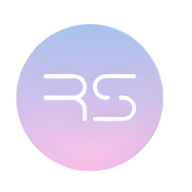
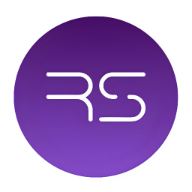
theme updated

diff --git a/src/App.css b/src/App.css
@@ -92,7 +92,7 @@ nav.navbar {
 }
 nav.navbar.scrolled {
   padding: 0px 0;
-  background-color: #121212;
+  background-color: #000000;
 }
 nav.navbar a.navbar-brand {
     width: 9%;
@@ -234,18 +234,32 @@ nav.navbar .navbar-toggler[aria-expanded="true"] .navbar-toggler-icon {
 
 /************ Banner Css ************/
 .banner {
+  position: relative;
   margin-top: 0;
   padding: 260px 0 100px 0;
-  background-image: url('./assets/img/banner-bg.png');
+  background: none; /* Remove the background from the main element */
+}
+
+.banner::before {
+  content: '';
+  position: absolute;
+  top: 0;
+  left: 0;
+  right: 0;
+  bottom: 0;
+  background-image: url('./assets/img/banner-bg\ v1.png');
   background-position: top center;
   background-size: cover;
   background-repeat: no-repeat;
+  filter: blur(100%); /* Apply the filter here */
+  z-index: -1; /* Ensure the pseudo-element is behind the content */
 }
+
 .banner .tagline {
   font-weight: 700;
   letter-spacing: 0.8px;
   padding: 8px 10px;
-  background: linear-gradient(90.21deg, rgba(170, 54, 124, 0.5) -5.91%, rgba(74, 47, 189, 0.5) 111.58%);
+  background: linear-gradient(90.21deg, #8B4BD1  -5.91%, #430A62 111.58%);
   border: 1px solid rgba(255, 255, 255, 0.5);
   font-size: 20px;
   margin-bottom: 16px;
@@ -423,7 +437,7 @@ nav.navbar .navbar-toggler[aria-expanded="true"] .navbar-toggler-icon {
 }
 .proj-imgbx::before {
   content: "";
-  background: linear-gradient(90.21deg, #AA367C -5.91%, #4A2FBD 111.58%);
+  background: linear-gradient(90.21deg, #8B4BD1 -5.91%, #430A62 111.58%);
   opacity: 0.85;
   position: absolute;
   width: 100%;
@@ -470,7 +484,7 @@ nav.navbar .navbar-toggler[aria-expanded="true"] .navbar-toggler-icon {
 
 /************ Projects Css ************/
 .contact {
-  background: linear-gradient(90.21deg, #AA367C -5.91%, #4A2FBD 111.58%);
+  background: linear-gradient(90.21deg,#8B4BD1  -5.91%, #430A62 111.58%);
   padding: 60px 0 200px 0;
 }
 .contact img {
@@ -543,7 +557,9 @@ nav.navbar .navbar-toggler[aria-expanded="true"] .navbar-toggler-icon {
 /************ Footer Css ************/
 .footer {
   padding: 0 0 25px 0;
-  background-image: url('./assets/img/footer-bg.png');
+  /* background-image: url('./assets/img/footer-bg.png'); */
+  background-color: rgb(0, 0, 0);
+  filter: brightness(100%);
   background-position: center center;
   background-size: cover;
   background-repeat: no-repeat;
@@ -696,6 +712,8 @@ nav.navbar .navbar-toggler[aria-expanded="true"] .navbar-toggler-icon {
 .navbar-img {
   position: relative;
   top: -5px;
+  margin-top: 20px;
+  margin-bottom: 10px;
   left: -56px;
 }
 
@@ -804,7 +822,7 @@ nav.navbar .navbar-toggler[aria-expanded="true"] .navbar-toggler-icon {
 
 /* Download button styles */
 .rs-download {
-  background-image: linear-gradient(30deg, #AA367C 0%, #4A2FBD 51%, #AA367C 100%);
+  background-image: linear-gradient(30deg,#8B4BD1  0%, #430A62 51%, #8B4BD1 100%);
   margin: 10px;
   padding: 15px 45px;
   text-align: center;

diff --git a/src/components/Banner.js b/src/components/Banner.js
@@ -1,6 +1,6 @@
 import { useState, useEffect } from "react";
 import { Container, Row, Col } from "react-bootstrap";
-import headerImg from "../assets/img/header-img.svg";
+import headerImg from "../assets/img/moonreaper.png";
 import { ArrowRightCircle } from 'react-bootstrap-icons';
 import 'animate.css';
 import TrackVisibility from 'react-on-screen';
@@ -55,7 +55,7 @@ export const Banner = () => {
             <TrackVisibility>
               {({ isVisible }) =>
               <div className={isVisible ? "animate__animated animate__fadeIn" : ""}>
-                <span className="tagline">Welcome to my Portfolio</span>
+                <span className="tagline" >Welcome to my Portfolio</span>
                 <h1>{`Hi I'm Shashank  `} <span className="txt-rotate" dataPeriod="1000" data-rotate='[ "Web Developer", "Web Designer" ]'><span className="wrap">{text}</span></span></h1>
                 <p>An aspiring web professional dedicated to creating innovative and user-friendly digital experiences. Passionate about leveraging technology to solve real-world problems and deliver impactful solutions.</p>
                   <a href="#connect" style={{ textDecoration: 'none' }}>
@@ -69,7 +69,7 @@ export const Banner = () => {
             <TrackVisibility>
               {({ isVisible }) =>
                 <div className={isVisible ? "animate__animated animate__zoomIn" : ""}>
-                  <img src={headerImg} alt="Header Img"/>
+                  <img className="banner-logo" src={headerImg} alt="Header Img"/>
                 </div>}
             </TrackVisibility>
           </Col>

diff --git a/src/components/NavBar.js b/src/components/NavBar.js
@@ -1,6 +1,6 @@
 import { useState, useEffect } from "react";
 import { Navbar, Nav, Container } from "react-bootstrap";
-import logo from '../assets/img/logo-2.png';
+import logo from '../assets/img/logo-3.png';
 import navIcon1 from '../assets/img/nav-icon1.svg';
 import navIcon2 from '../assets/img/nav-icon2.svg';
 import navIcon3 from '../assets/img/nav-icon3.svg';
@@ -37,7 +37,7 @@ export const NavBar = () => {
       <Navbar expand="md" className={scrolled ? "scrolled" : ""}>
         <Container>
           <Navbar.Brand href="/">
-<img className="navbar-img" src={logo} alt="" />
+<img className="navbar-img"  src={logo} alt="" />
           </Navbar.Brand>
           <Navbar.Toggle aria-controls="basic-navbar-nav">
             <span className="navbar-toggler-icon"></span>

diff --git a/src/components/Footer.js b/src/components/Footer.js
@@ -1,6 +1,6 @@
 import { Container, Row, Col } from "react-bootstrap";
 import { MailchimpForm } from "./MailchimpForm";
-import logo from "../assets/img/logo-2.png";
+import logo from "../assets/img/logo-3.png";
 import navIcon1 from "../assets/img/nav-icon1.svg";
 import navIcon2 from "../assets/img/nav-icon2.svg";
 import navIcon3 from "../assets/img/nav-icon3.svg";
@@ -12,7 +12,9 @@ export const Footer = () => {
         <Row className="align-items-center">
           <MailchimpForm />
           <Col size={12} sm={6}>
+          <a href="#home">
             <img className="footer-icon-img" src={logo} alt="Logo" />
+            </a>
           </Col>
           <Col size={12} sm={6} className="text-center text-sm-end">
           <div className="social-icon">

diff --git a/public/index.html b/public/index.html
@@ -11,7 +11,7 @@
     />
     <link rel="apple-touch-icon" href="%PUBLIC_URL%/android-chrome-192x192.png" />
     <link rel="manifest" href="%PUBLIC_URL%/manifest.json" />
-    <title>Portfolio</title>
+    <title>Shashank R</title>
   </head>
   <body>
     <noscript>You need to enable JavaScript to run this app.</noscript>
